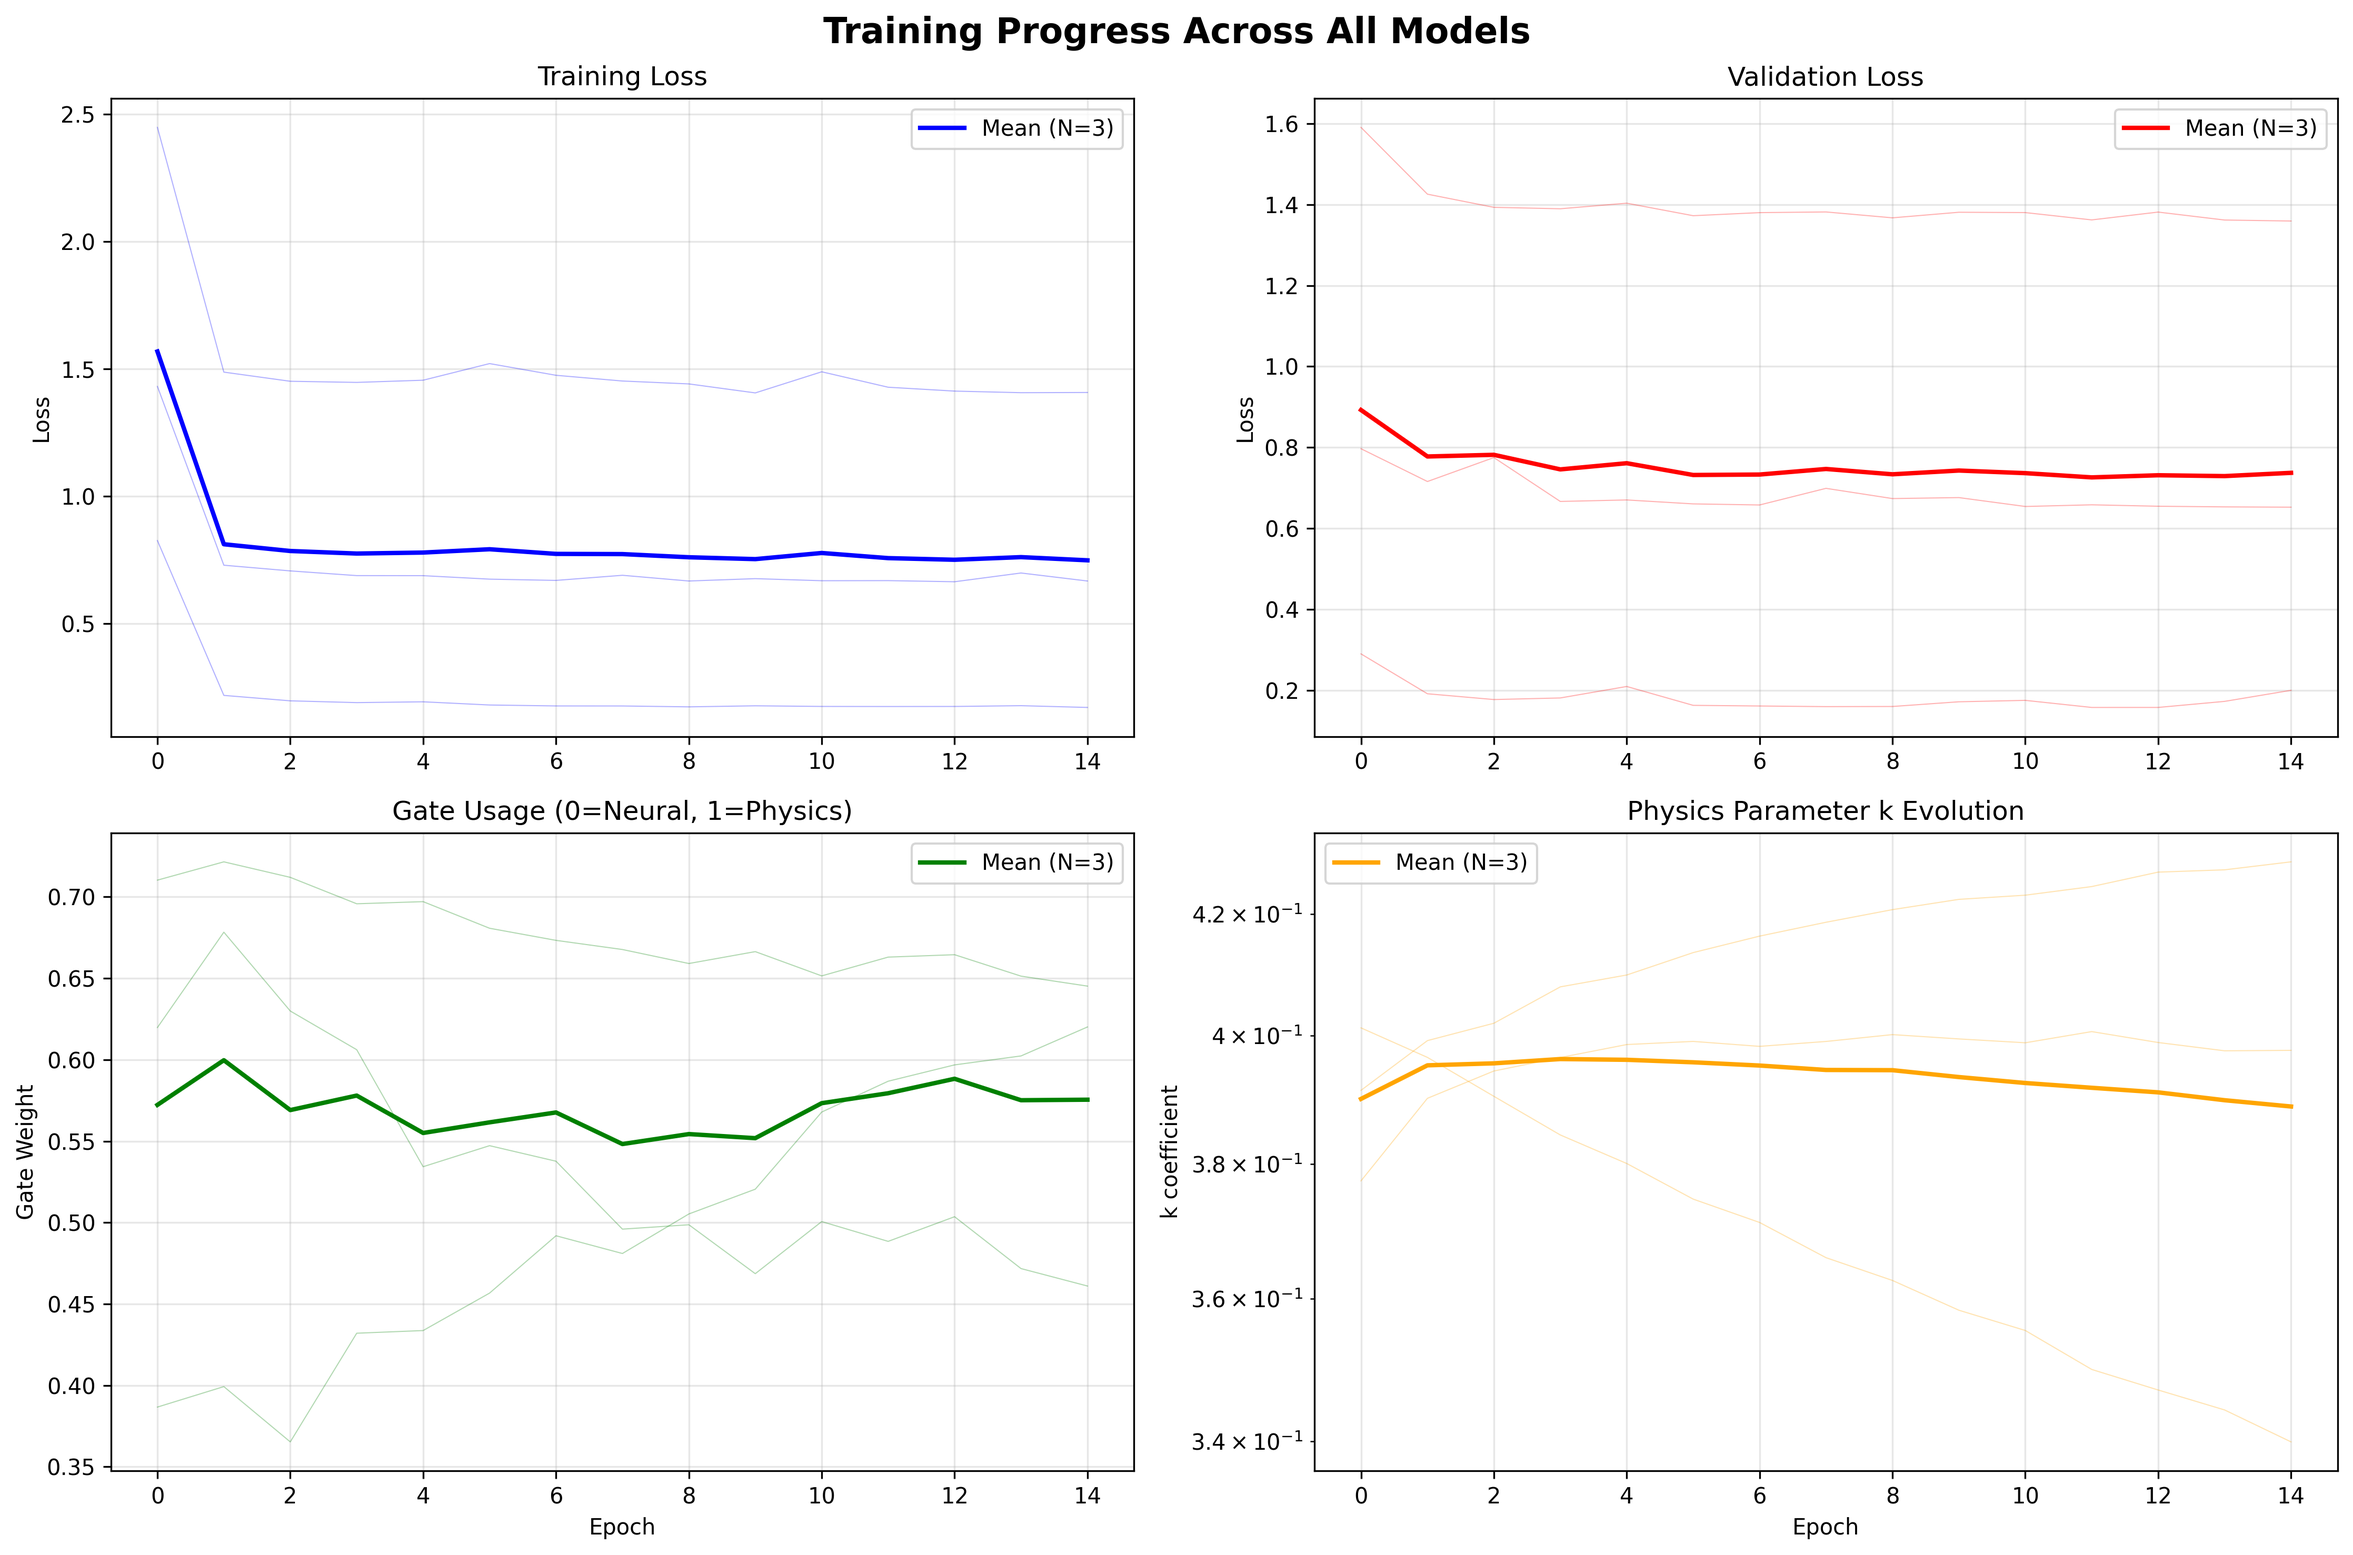
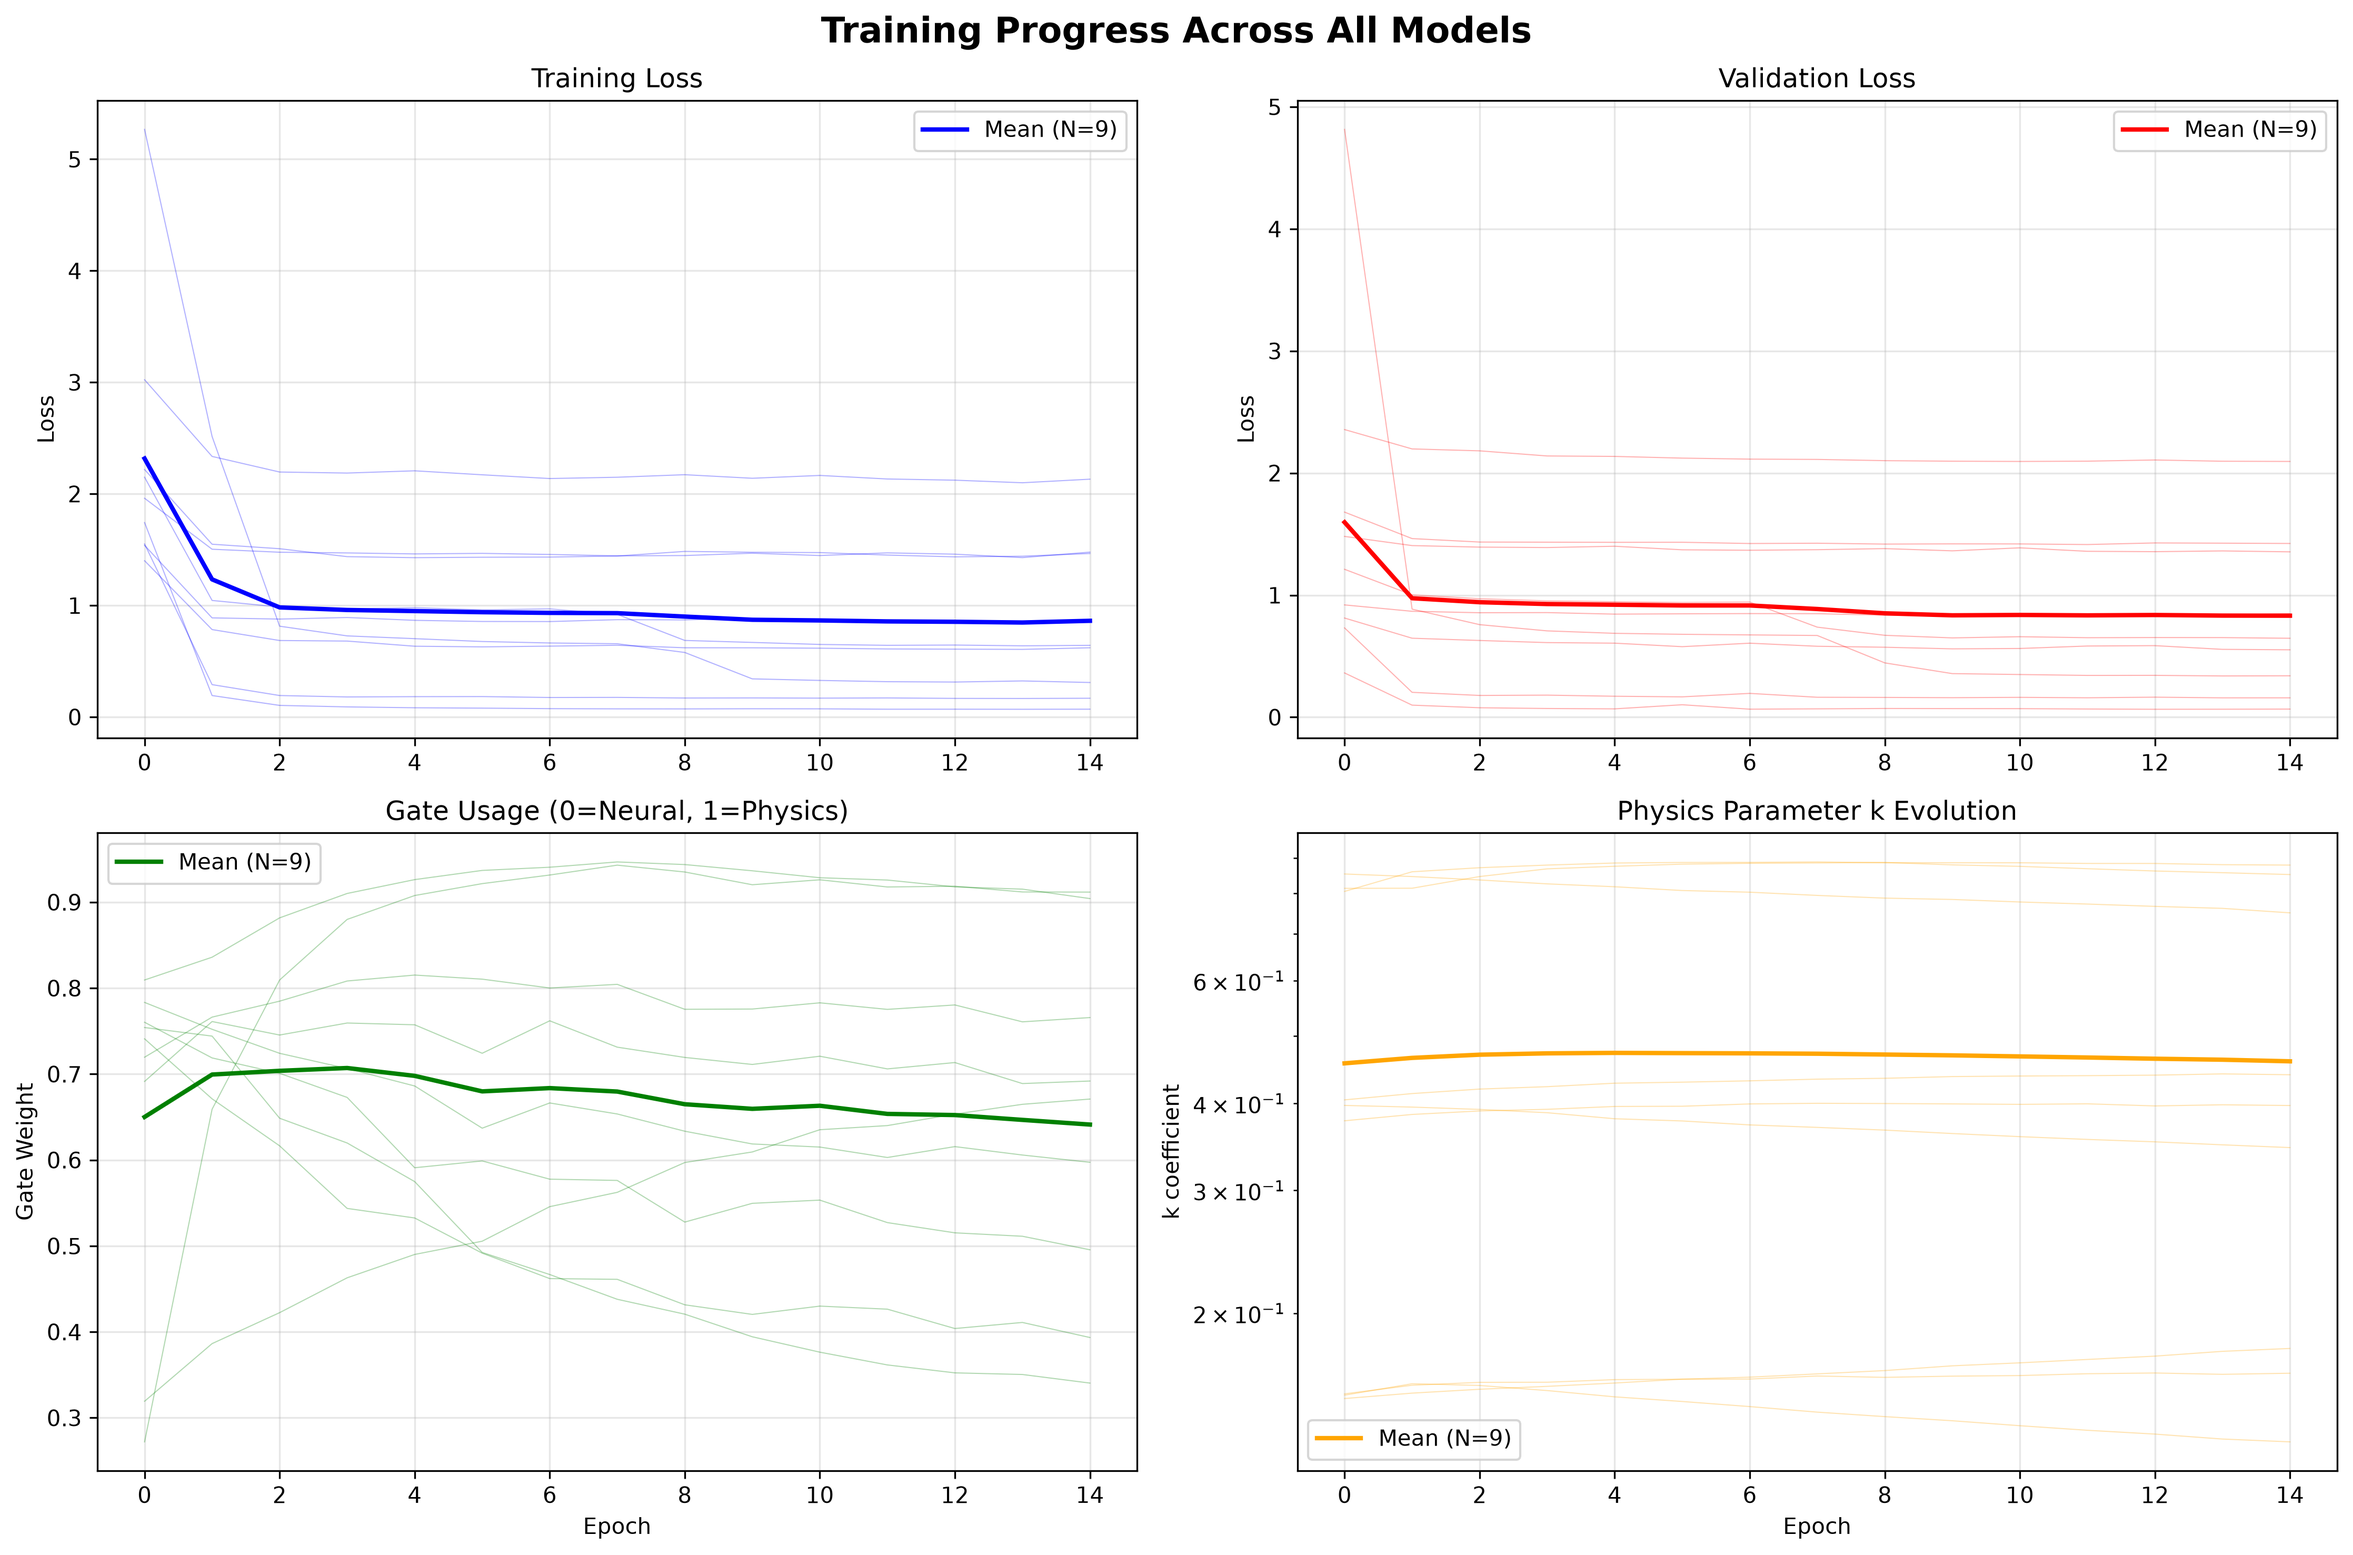
fix(physics_ml): main_experiment and discover_itu run end to end again
main_experiment.py never ran: it called a plot_synthetic_data the
simulator never had (added), blocked on input() in any non-interactive
run (now pauses only at a terminal), passed a kwarg plot_noise_comparison
does not take (--analyze-only), and wrote its figures into src/ (now
results/). discover_itu --all crashed on an undefined figure() because
__main__ ran mid-file, as discover_advection did. The committed JSON came
from --noise 0.002, not the documented command; regenerated with the
default, the synthetic row reads 0.230 / 0.912 (reference and gauge rows
unchanged).

diff --git a/projects/physics_ml/src/main_experiment.py b/projects/physics_ml/src/main_experiment.py
@@ -4,11 +4,21 @@ Clean interface for running experiments
 """
 import sys
 from dataclasses import dataclass
+from pathlib import Path
 from typing import List
 
 from data_analysis import analyze_synthetic_data, generate_datasets, summarize_datasets
 from training_utils import train_models, plot_training_curves, analyze_results, get_device
 from rain_simulator import rain_params_from_itu
+
+RESULTS = Path(__file__).resolve().parent.parent / "results"
+
+
+def pause(message: str):
+    """Wait for Enter at a terminal; run straight through otherwise."""
+    print(f"\n{message}")
+    if sys.stdin.isatty():
+        input()
 
 
 @dataclass
@@ -62,18 +72,14 @@ def main():
     print("\nStep 1: Data Analysis")
     gen = analyze_synthetic_data(config, save_plots=True)
 
-    # Ask user if they want to proceed with dataset generation
-    print(f"\nPress Enter to continue with dataset generation and training...")
-    input()
+    pause("Press Enter to continue with dataset generation and training...")
 
     # Step 2: Generate datasets
     print("\nStep 2: Dataset Generation")
     datasets = generate_datasets(config)
     summarize_datasets(datasets)
 
-    # Ask user if they want to proceed with training
-    print(f"\nPress Enter to continue with model training on {device}...")
-    input()
+    pause(f"Press Enter to continue with model training on {device}...")
 
     # Step 3: Train models
     print(f"\nStep 3: Model Training")
@@ -85,9 +91,9 @@ def main():
 
     # Step 5: Plot training curves
     print(f"\nStep 5: Visualization")
-    plot_training_curves(results, save_path="training_curves.png")
+    plot_training_curves(results, save_path=str(RESULTS / "training_curves.png"))
 
-    print(f"\nExperiment completed! Generated plots:")
+    print(f"\nExperiment completed! Plots in {RESULTS}:")
     print("- synthetic_data_analysis.png")
     print("- rain_process_analysis.png")
     print("- training_curves.png")
@@ -118,7 +124,6 @@ def analyze_data_only():
         link_length_km=config.link_length_km,
         freq_ghz=24,
         rain_sampler=lambda n: gen._rain_ar1(n, phi=0.7, mu=5.0, sigma_eps=2.0),
-        unified=True
     )
 
     return config, gen

diff --git a/projects/physics_ml/src/rain_simulator.py b/projects/physics_ml/src/rain_simulator.py
@@ -163,6 +163,39 @@ class RainAttenuationGenerator:
         plt.tight_layout(rect=[0, 0, 1, 0.92])
         plt.show()
 
+    def plot_synthetic_data(self, frequencies: List[float], sigma_vals: List[float],
+                            n_samples: int = 2000, link_length_km: float = 1.0,
+                            rain_sampler: Callable[[int], np.ndarray] = None,
+                            save_path: Optional[str] = None):
+        """Attenuation against rain rate, one panel per frequency x noise level.
+
+        Each frequency uses its ITU-R P.838-3 coefficients; the dashed line is
+        the noise-free power law.
+        """
+        fig, axes = plt.subplots(len(sigma_vals), len(frequencies), squeeze=False,
+                                 figsize=(3.6 * len(frequencies), 3.0 * len(sigma_vals)))
+        for j, freq in enumerate(frequencies):
+            rp = rain_params_from_itu(freq)
+            for i, sigma in enumerate(sigma_vals):
+                ax = axes[i][j]
+                R, _, A, _, _ = self.generate_data(
+                    n_samples, rp, link_length_km=link_length_km, sigma_db=sigma,
+                    rain_sampler=rain_sampler, test_size=0.0)
+                R_ref = np.linspace(0, max(R.max(), 1.0), 200)
+                ax.scatter(R, A, s=4, alpha=0.4)
+                ax.plot(R_ref, rp.a_coeff * R_ref ** rp.b_exponent * link_length_km, "--k", lw=1.2)
+                ax.set_title(f"{freq:g} GHz, σ = {sigma:g} dB", fontsize=10)
+                ax.grid(alpha=0.3)
+                if i == len(sigma_vals) - 1:
+                    ax.set_xlabel("rain rate (mm/h)")
+                if j == 0:
+                    ax.set_ylabel("attenuation (dB)")
+        fig.tight_layout()
+        if save_path:
+            fig.savefig(save_path, dpi=120)
+        plt.show()
+        return fig
+
 
 def rain_params_from_itu(freq_ghz: float, pol: str = "vertical") -> RainParams:
     """Return RainParams with ITU-R coefficients"""

diff --git a/projects/physics_ml/src/data_analysis.py b/projects/physics_ml/src/data_analysis.py
@@ -3,10 +3,13 @@ Data analysis functions for hybrid rain retrieval
 """
 import numpy as np
 import matplotlib.pyplot as plt
+from pathlib import Path
 from typing import List, Dict, Any
 from sklearn.model_selection import train_test_split
 
 from rain_simulator import RainAttenuationGenerator, rain_params_from_itu, get_k_alpha
+
+RESULTS = Path(__file__).resolve().parent.parent / "results"
 
 
 def analyze_synthetic_data(config, save_plots: bool = True):
@@ -32,7 +35,7 @@ def analyze_synthetic_data(config, save_plots: bool = True):
         n_samples=2000,
         link_length_km=config.link_length_km,
         rain_sampler=lambda n: gen._rain_ar1(n, phi=0.7, mu=5.0, sigma_eps=2.0),
-        save_path="synthetic_data_analysis.png" if save_plots else None
+        save_path=str(RESULTS / "synthetic_data_analysis.png") if save_plots else None
     )
 
     # Print ITU coefficients for all frequencies
@@ -87,8 +90,8 @@ def analyze_synthetic_data(config, save_plots: bool = True):
     plt.tight_layout()
 
     if save_plots:
-        plt.savefig("rain_process_analysis.png", dpi=300, bbox_inches='tight')
-        print(f"Rain process analysis saved to: rain_process_analysis.png")
+        plt.savefig(RESULTS / "rain_process_analysis.png", dpi=300, bbox_inches='tight')
+        print(f"Rain process analysis saved to: {RESULTS / 'rain_process_analysis.png'}")
 
     plt.show()
 

diff --git a/projects/physics_ml/src/discover_itu.py b/projects/physics_ml/src/discover_itu.py
@@ -307,8 +307,6 @@ def main() -> None:
         print(f"wrote {fig_path.relative_to(REPO_ROOT)}")
 
 
-if __name__ == "__main__":
-    main()
 
 
 # --------------------------------------------------------------------------
@@ -370,3 +368,7 @@ def figure(runs: list[dict], path: Path) -> None:
     fig.tight_layout()
     fig.savefig(path, bbox_inches="tight")
     plt.close(fig)
+
+
+if __name__ == "__main__":
+    main()

diff --git a/projects/physics_ml/README.md b/projects/physics_ml/README.md
@@ -77,9 +77,9 @@ present has a job:
 system, and field estimation is where that matters: a nowcast has to
 propagate the field forward, which means knowing how it moves.
 `projects/spatial_interpolation` benchmarks POD-SINDy against a Transformer
-and a GRU for exactly this, on real data and on these same moving fields. The Lorenz notebook teaches the
-method; `discover_advection.py` runs it on rainfall with a velocity known
-exactly, so the answer can be checked.
+and a GRU for exactly this, on real data and on these same moving fields.
+The Lorenz notebook teaches the method; `discover_advection.py` runs it on
+rainfall with a velocity known exactly, so the answer can be checked.
 
 The N-body and PINN-gravity material has no such counterpart and moved to
 `projects/mphysics/`. See `core/scientific_packages/` for PySINDy and PySR
@@ -134,7 +134,7 @@ has 172 links (ITU: k = 0.229, alpha = 0.913):
 
 | experiment | rain rate from | recovered k | recovered alpha | alpha error |
 |---|---|---|---|---|
-| synthetic | ITU + noise, truth known | 0.229 | 0.913 | **0.000** |
+| synthetic | ITU + noise, truth known | 0.230 | 0.912 | **0.001** |
 | reference | OpenSense's published retrieval | 0.419 | 0.911 | **0.002** |
 | gauge | municipal rain gauges | 0.488 | 0.478 | **0.435** |
 
